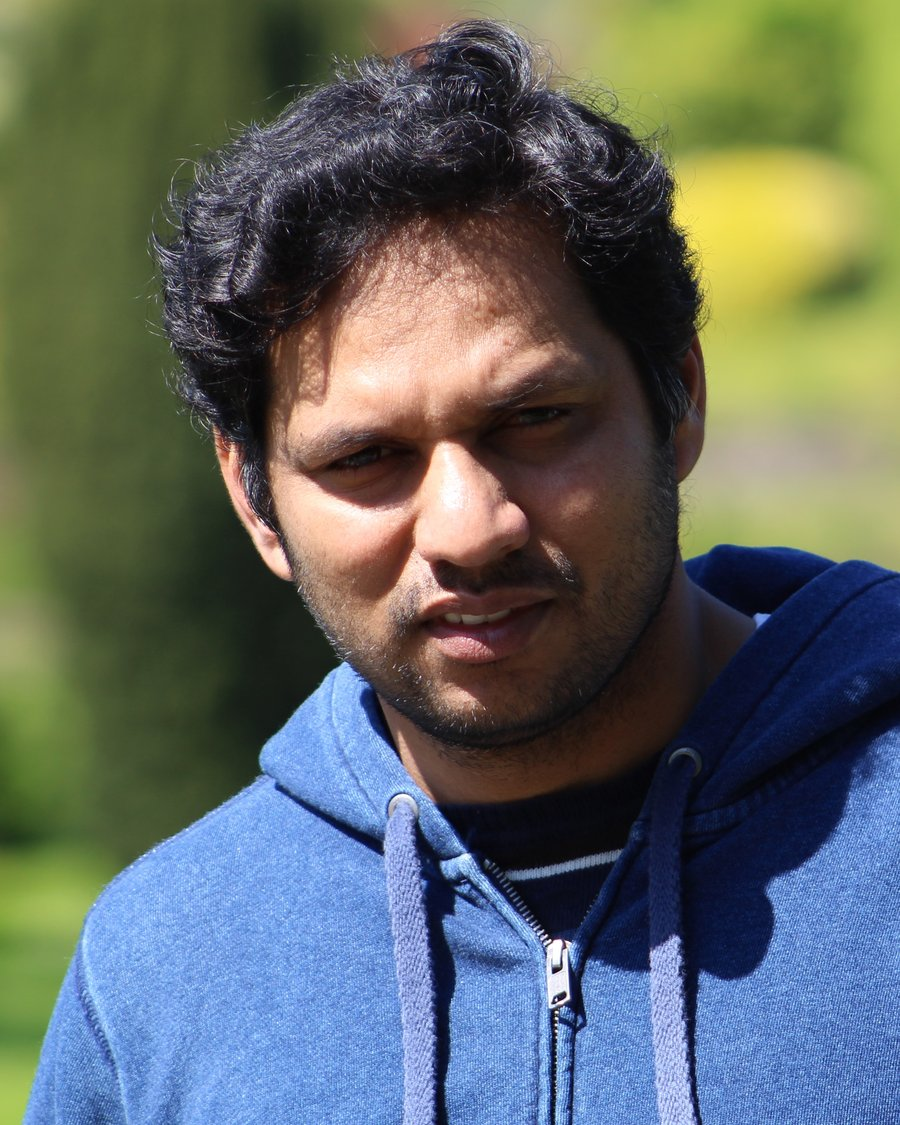
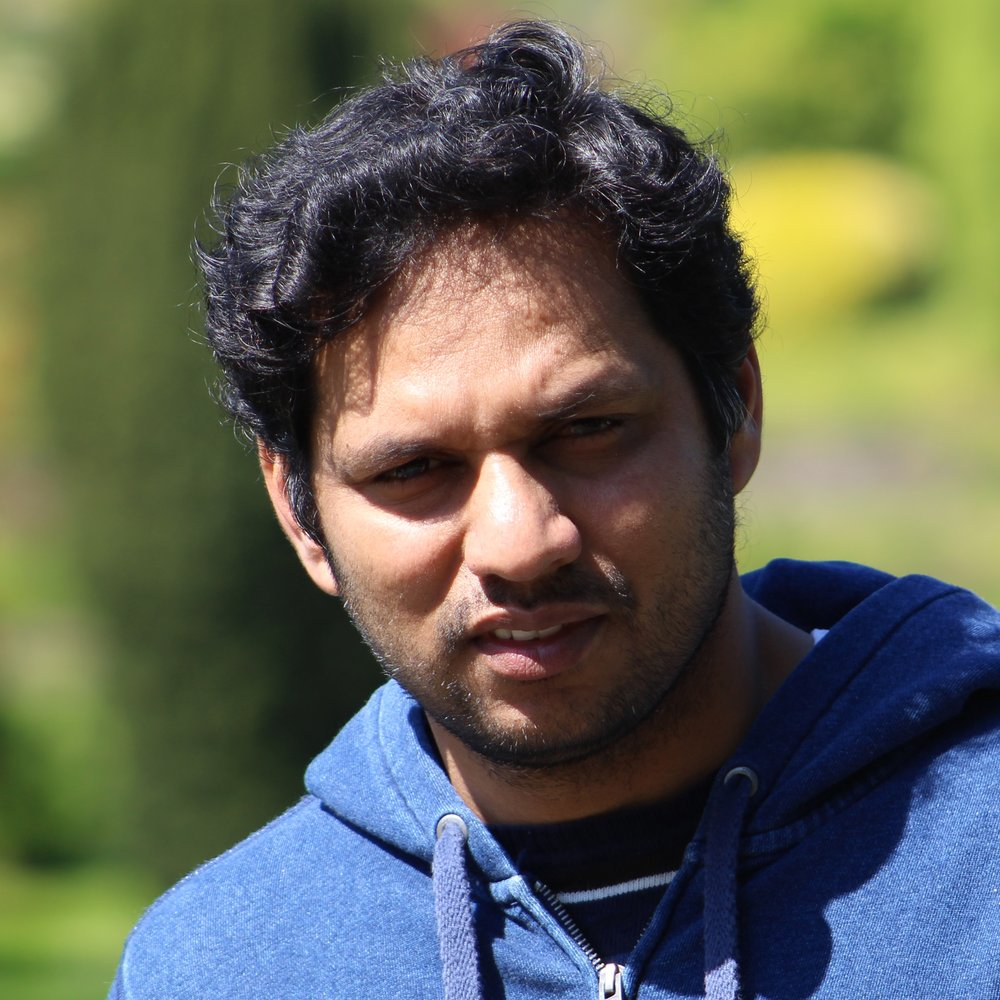
Make portrait squarer and colour clickable conference links blue
- Recrop profile photo to a 1:1 square so it reads better and is less tall
- Style conference links (inline, headings and venue chips) in accent blue
  with an underline so they are clearly recognisable as clickable

diff --git a/assets/css/style.css b/assets/css/style.css
@@ -60,17 +60,17 @@ a {
 }
 a:hover { color: var(--accent-deep); text-decoration: underline; }
 
-/* Conference name links that blend into prose and headings */
+/* Conference name links: clearly coloured so they read as clickable */
 .conf-link {
-  color: inherit;
-  text-decoration: none;
-  border-bottom: 1px dotted color-mix(in oklab, currentColor 45%, transparent);
-  transition: color 160ms ease, border-color 160ms ease;
+  color: var(--accent);
+  font-weight: 600;
+  text-decoration: underline;
+  text-decoration-thickness: 1px;
+  text-underline-offset: 2px;
+  transition: color 160ms ease;
 }
 .conf-link:hover {
-  color: var(--accent);
-  text-decoration: none;
-  border-bottom-color: currentColor;
+  color: var(--accent-deep);
 }
 
 .skip-link {
@@ -289,16 +289,16 @@ html[data-theme="dark"] .theme-toggle .icon-moon { display: block; }
 
 .hero-portrait {
   width: 100%;
-  max-width: 360px;
-  aspect-ratio: 4 / 5;
+  max-width: 340px;
+  aspect-ratio: 1 / 1;
   object-fit: cover;
-  object-position: center 22%;
+  object-position: center 18%;
   border-radius: var(--radius-lg);
   border: 1px solid var(--line);
   box-shadow: var(--shadow-lg);
 }
 @media (max-width: 880px) {
-  .hero-portrait { max-width: 320px; }
+  .hero-portrait { max-width: 300px; }
 }
 
 .hero-stats {
@@ -506,9 +506,9 @@ html[data-theme="dark"] .theme-toggle .icon-moon { display: block; }
 .profile-photo {
   display: block;
   width: 100%;
-  aspect-ratio: 4 / 5;
+  aspect-ratio: 1 / 1;
   object-fit: cover;
-  object-position: center 22%;
+  object-position: center 18%;
   border-radius: var(--radius);
   border: 1px solid var(--line);
   box-shadow: var(--shadow);
@@ -583,13 +583,13 @@ html[data-theme="dark"] .theme-toggle .icon-moon { display: block; }
   font-weight: 600;
 }
 .card-venue a {
-  color: inherit;
-  text-decoration: none;
-  border-bottom: 1px dotted currentColor;
+  color: var(--accent);
+  text-decoration: underline;
+  text-decoration-thickness: 1px;
+  text-underline-offset: 2px;
 }
 .card-venue a:hover {
-  color: var(--accent);
-  border-bottom-style: solid;
+  color: var(--accent-deep);
 }
 .card h3 {
   font-family: var(--serif);

diff --git a/about.html b/about.html
@@ -136,7 +136,7 @@
         </div>
 
         <aside class="about-side" aria-label="At a glance">
-          <img class="profile-photo" src="assets/img/profile.jpg" width="900" height="1125" alt="Portrait of Dr. Abdul Razak" />
+          <img class="profile-photo" src="assets/img/profile.jpg" width="1000" height="1000" alt="Portrait of Dr. Abdul Razak" />
           <h3>At a glance</h3>
           <dl>
             <div>

diff --git a/index.html b/index.html
@@ -72,7 +72,7 @@
         </div>
 
         <div class="hero-aside">
-          <img class="hero-portrait" src="assets/img/profile.jpg" width="900" height="1125" alt="Portrait of Dr. Abdul Razak" />
+          <img class="hero-portrait" src="assets/img/profile.jpg" width="1000" height="1000" alt="Portrait of Dr. Abdul Razak" />
           <aside class="hero-stats" aria-label="Highlights">
             <div class="stat">
               <span class="stat-num">10+</span>